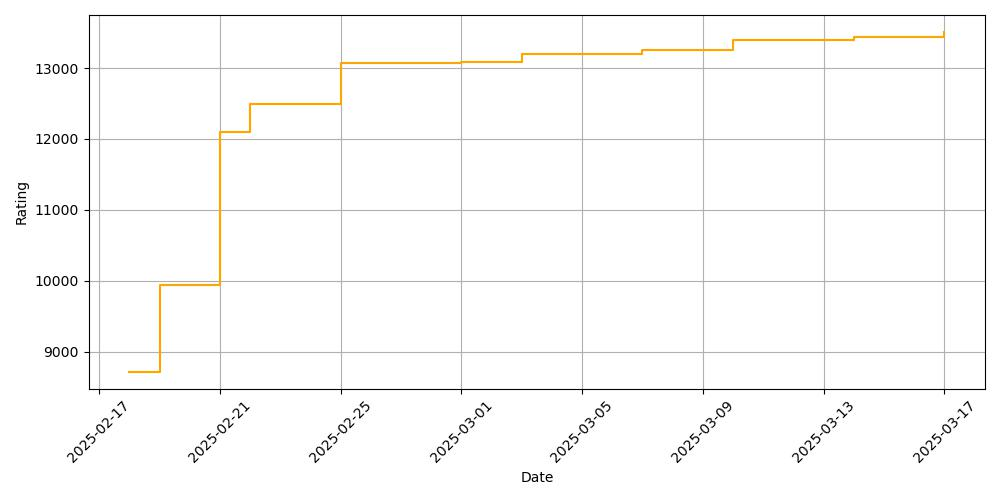
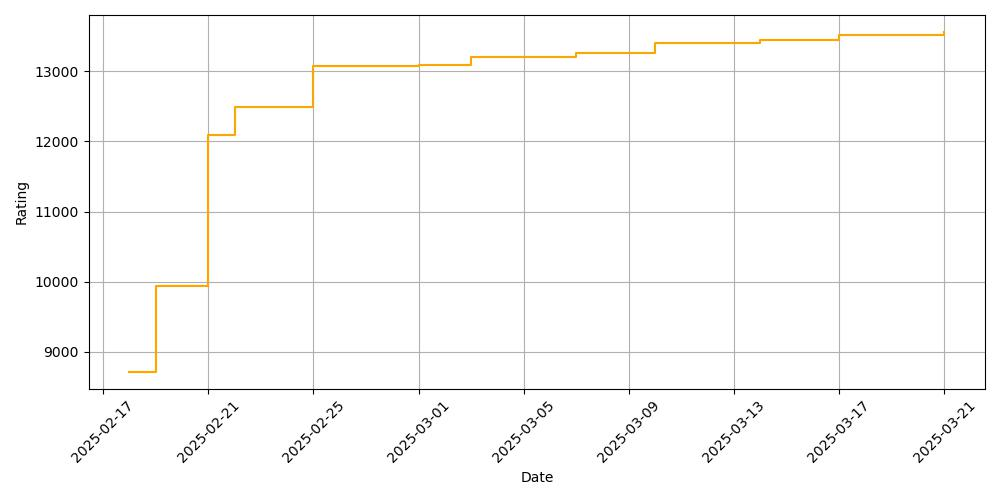
Walk into PRiSM, and more!

diff --git a/README.md b/README.md
@@ -2,9 +2,9 @@
 
 **WARNING: ALL CHARTS ARE FROM THE INTERNET AND NOT RELATED TO MAIMAI (SEGA).**
 
-Here keeps all my maimai scores (unofficial) from AstroDX and official score from maimai (CN ver.). See the progress here.
+Here keeps all my maimai scores (unofficial) from AstroDX and official scores from maimai (CN ver.). See the progress here.
 
-Use `main.py` to add new scores.
+Use `main.py` to add new scores. Use `history/graph.py` to 
 
 ## AstroDX
 
@@ -13,6 +13,12 @@ Use `main.py` to add new scores.
 > Using maimai BUDDiES PLUS (Generic)
 
 ![scoreb50.jpg](scoreb50.jpg)
+
+> Using maimai PRiSM (Generic)
+>
+> *Due to the fact that some charts are not yet released in the INTL version, this version's plays will not be updated in the graph. Damn, I simply wants to play the latest charts.*
+
+![prismb50.jpg](prismb50.jpg)
 
 ### Rating Graph
 
